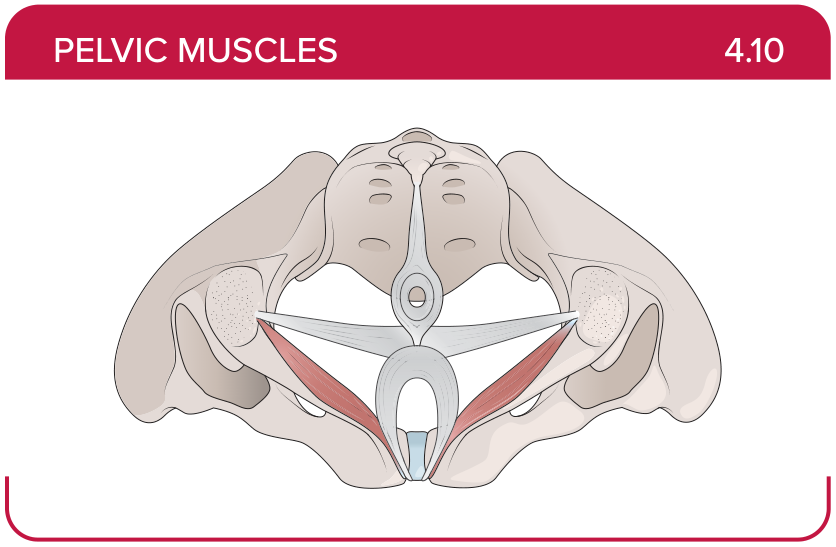
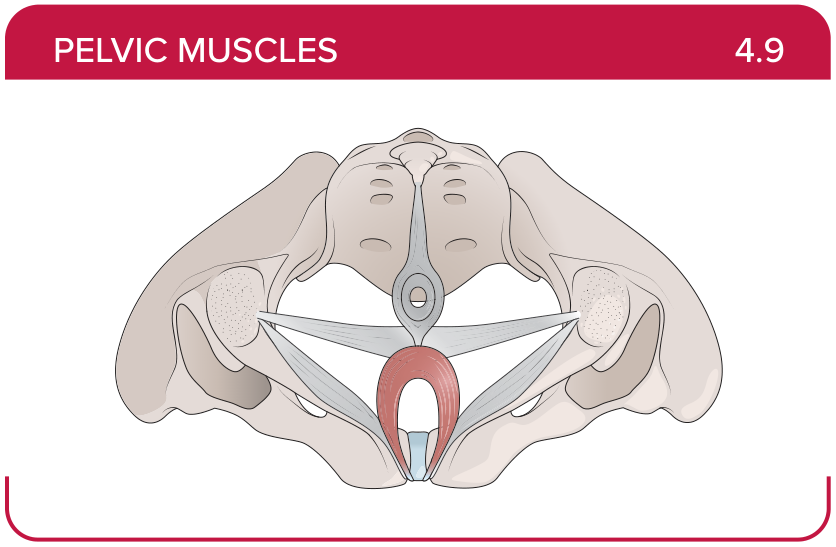
edits before proof

diff --git a/data/cards.js b/data/cards.js
@@ -2,8 +2,8 @@
 window.MCPHERSON_CARD_DATA = {
   "schemaVersion": 2,
   "source": {
-    "filename": "Section 6 Question Manuscript.docx",
[1 lines of base64/hex data omitted]
+    "filename": "Section 4 Question Manuscript.docx",
[1 lines of base64/hex data omitted]
     "manuscriptSectionHeadings": [
       "Section 1: Head and neck",
       "Section 2: Lumbar Region",
@@ -14,10 +14,10 @@ window.MCPHERSON_CARD_DATA = {
     ],
     "merge": {
       "replacedSectionIds": [
-        "lower-extremity"
+        "pelvic-bones"
       ],
-      "replacedCards": 71,
-      "preservedCards": 173
+      "replacedCards": 13,
+      "preservedCards": 231
     }
   },
   "sections": [
@@ -11670,15 +11670,15 @@ window.MCPHERSON_CARD_DATA = {
       "ready": true,
       "draftReasonCodes": [],
       "image": {
-        "sourceFile": "L1344_760107",
-        "src": "Assets/Cards/L1344_760107.png",
+        "sourceFile": "L1344_760108",
+        "src": "Assets/Cards/L1344_760108.png",
         "width": 836,
         "height": 547,
         "alt": "Superficial transverse perineal anatomical reference illustration",
         "draftThumbnail": true,
         "packageSource": "word/media/image8.png"
       },
-      "searchText": "4.8 pelvic bones muscles superficial transverse perineal l1344_760107 proximal insertion: *ischium pubis anococcygeal ligament distal insertion: *perineal body pubic symphysis coccyx innervation: *pudendal nerve anterior rami of spinal nerves s4-s5 action: *supports the perineal body *maintains the anus at the center of the perineum compression of the anal canal",
+      "searchText": "4.8 pelvic bones muscles superficial transverse perineal l1344_760108 proximal insertion: *ischium pubis anococcygeal ligament distal insertion: *perineal body pubic symphysis coccyx innervation: *pudendal nerve anterior rami of spinal nerves s4-s5 action: *supports the perineal body *maintains the anus at the center of the perineum compression of the anal canal",
       "groups": [
         {
           "id": "proximal-insertion",
@@ -11793,15 +11793,15 @@ window.MCPHERSON_CARD_DATA = {
       "ready": true,
       "draftReasonCodes": [],
       "image": {
-        "sourceFile": "L1344_760108",
-        "src": "Assets/Cards/L1344_760108.png",
+        "sourceFile": "L1344_760109",
+        "src": "Assets/Cards/L1344_760109.png",
         "width": 836,
         "height": 547,
         "alt": "Bulbospongiosus anatomical reference illustration",
         "draftThumbnail": true,
         "packageSource": "word/media/image9.png"
       },
-      "searchText": "4.9 pelvic bones muscles bulbospongiosus l1344_760108 proximal insertion: *perineal body anococcygeal ligament ischial rami distal insertion: *perineal membrane *corpus spongiosum of the penis, deep fascia of the penis, clitoris in the female pubic symphysis innervation: *pudendal nerve anterior rami of spinal nerves s4-s5 action: *compresses the urethra during urination or ejaculation *aids erection stabilizes the coccyx",
+      "searchText": "4.9 pelvic bones muscles bulbospongiosus l1344_760109 proximal insertion: *perineal body anococcygeal ligament ischial rami distal insertion: *perineal membrane *corpus spongiosum of the penis, deep fascia of the penis, clitoris in the female pubic symphysis innervation: *pudendal nerve anterior rami of spinal nerves s4-s5 action: *compresses the urethra during urination or ejaculation *aids erection stabilizes the coccyx",
       "groups": [
         {
           "id": "proximal-insertion",
@@ -11916,15 +11916,15 @@ window.MCPHERSON_CARD_DATA = {
       "ready": true,
       "draftReasonCodes": [],
       "image": {
-        "sourceFile": "L1344_760109",
-        "src": "Assets/Cards/L1344_760109.png",
+        "sourceFile": "L1344_760110",
+        "src": "Assets/Cards/L1344_760110.png",
         "width": 836,
         "height": 547,
         "alt": "Ischiocavernosus anatomical reference illustration",
         "draftThumbnail": true,
         "packageSource": "word/media/image10.png"
       },
-      "searchText": "4.10 pelvic bones muscles ischiocavernosus l1344_760109 proximal insertion: *ischium *ischial rami *pubic rami distal insertion: *pubic symphysis *corpus cavernosum of the penis in males, clitoris in females perineal body innervation: *pudendal nerve anterior rami of spinal nerves s4-s5 action: *compresses veins to maintain erection supports the pelvic floor closes the anus",
+      "searchText": "4.10 pelvic bones muscles ischiocavernosus l1344_760110 proximal insertion: *ischium *ischial rami *pubic rami distal insertion: *pubic symphysis *corpus cavernosum of the penis in males, clitoris in females perineal body innervation: *pudendal nerve anterior rami of spinal nerves s4-s5 action: *compresses veins to maintain erection supports the pelvic floor closes the anus",
       "groups": [
         {
           "id": "proximal-insertion",
@@ -12039,15 +12039,15 @@ window.MCPHERSON_CARD_DATA = {
       "ready": true,
       "draftReasonCodes": [],
       "image": {
-        "sourceFile": "L1344_760110",
-        "src": "Assets/Cards/L1344_760110.png",
+        "sourceFile": "L1344_760111",
+        "src": "Assets/Cards/L1344_760111.png",
         "width": 836,
         "height": 547,
         "alt": "External urethral sphincter anatomical reference illustration",
         "draftThumbnail": true,
         "packageSource": "word/media/image11.png"
       },
-      "searchText": "4.11 pelvic bones muscles external urethral sphincter l1344_760110 proximal insertion: *ischial rami *pubic rami pubic symphysis ischial spine distal insertion: *male—median raphe; female—vaginal wall perineal body coccyx innervation: *pudendal nerve anterior rami of spinal nerves s4-s5 action: *voluntarily compresses urethra during urination closes the anus stabilizes the coccyx",
+      "searchText": "4.11 pelvic bones muscles external urethral sphincter l1344_760111 proximal insertion: *ischial rami *pubic rami pubic symphysis ischial spine distal insertion: *male—median raphe; female—vaginal wall perineal body coccyx innervation: *pudendal nerve anterior rami of spinal nerves s4-s5 action: *voluntarily compresses urethra during urination closes the anus stabilizes the coccyx",
       "groups": [
         {
           "id": "proximal-insertion",
@@ -12167,15 +12167,15 @@ window.MCPHERSON_CARD_DATA = {
       "ready": true,
       "draftReasonCodes": [],
       "image": {
-        "sourceFile": "L1344_760111",
-        "src": "Assets/Cards/L1344_760111.png",
+        "sourceFile": "L1344_760112",
+        "src": "Assets/Cards/L1344_760112.png",
         "width": 836,
         "height": 547,
         "alt": "External anal sphincter anatomical reference illustration",
         "draftThumbnail": true,
         "packageSource": "word/media/image12.png"
       },
-      "searchText": "4.12 pelvic bones muscles external anal sphincter l1344_760111 proximal insertion: *anococcygeal ligament pubic symphysis ischial spine distal insertion: *perineal body pubic symphysis coccyx innervation: *pudendal nerve anterior rami of spinal nerves s4-s5 action: *closes the anus voluntarily compresses urethra during urination stabilizes the coccyx",
+      "searchText": "4.12 pelvic bones muscles external anal sphincter l1344_760112 proximal insertion: *anococcygeal ligament pubic symphysis ischial spine distal insertion: *perineal body pubic symphysis coccyx innervation: *pudendal nerve anterior rami of spinal nerves s4-s5 action: *closes the anus voluntarily compresses urethra during urination stabilizes the coccyx",
       "groups": [
         {
           "id": "proximal-insertion",
@@ -12290,15 +12290,15 @@ window.MCPHERSON_CARD_DATA = {
       "ready": true,
       "draftReasonCodes": [],
       "image": {
-        "sourceFile": "L1344_760112",
-        "src": "Assets/Cards/L1344_760112.png",
+        "sourceFile": "L1344_760113",
+        "src": "Assets/Cards/L1344_760113.png",
         "width": 836,
         "height": 547,
         "alt": "Coccygeus anatomical reference illustration",
         "draftThumbnail": true,
         "packageSource": "word/media/image13.png"
       },
-      "searchText": "4.13 pelvic bones muscles coccygeus l1344_760112 proximal insertion: *ischial spine ischial rami pubic rami ischium distal insertion: *anterior rami of spinal nerves s4-s5 perineal body pubic symphysis coccyx innervation: *s4 and s5 pudendal nerve action: *supports the pelvic floor *stabilizes the coccyx closes the anus",
+      "searchText": "4.13 pelvic bones muscles coccygeus l1344_760113 proximal insertion: *ischial spine ischial rami pubic rami ischium distal insertion: *anterior rami of spinal nerves s4-s5 perineal body pubic symphysis coccyx innervation: *s4 and s5 pudendal nerve action: *supports the pelvic floor *stabilizes the coccyx closes the anus",
       "groups": [
         {
           "id": "proximal-insertion",

diff --git a/tests/smoke.html b/tests/smoke.html
@@ -76,6 +76,14 @@
           const data = appWindow.MCPHERSON_CARD_DATA;
 
           assert(data.cards.length === 244, "Expected all 244 manuscript cards.");
+          const stackActions = documentRoot.querySelector(".stack-actions");
+          const stackContent = documentRoot.getElementById("stackContent");
+          assert(
+            stackContent.getBoundingClientRect().top -
+              stackActions.getBoundingClientRect().bottom >=
+              12,
+            "Study-stack actions should be visually separated from its content box.",
+          );
           assert(
             data.cards.filter(
               (card) => card.sectionId === "head-neck" && card.cardType === "bones",
@@ -365,12 +373,30 @@
             "Section 4 should use the full-size production artwork.",
           );
 
-          searchFor(documentRoot, "L1344_760107");
+          const correctedSectionFourImages = {
+            "4.8": "L1344_760108",
+            "4.9": "L1344_760109",
+            "4.10": "L1344_760110",
+            "4.11": "L1344_760111",
+            "4.12": "L1344_760112",
+            "4.13": "L1344_760113",
+          };
+          for (const [cardId, sourceFile] of Object.entries(
+            correctedSectionFourImages,
+          )) {
+            const correctedCard = data.cards.find((card) => card.id === cardId);
+            assert(
+              correctedCard?.image.sourceFile === sourceFile,
+              `Card ${cardId} should use ${sourceFile}.`,
+            );
+          }
+
+          searchFor(documentRoot, "L1344_760113");
           assert(
             documentRoot
               .querySelector(".artwork-image")
-              .getAttribute("src") === "Assets/Cards/L1344_760107.png",
-            "Missing production artwork should fall back to its imported thumbnail.",
+              .getAttribute("src") === "Assets/images/L1344_760113.png",
+            "Corrected Section 4 cards should use full-size production artwork.",
           );
 
           searchFor(documentRoot, "L1344_760114");

diff --git a/app.js b/app.js
@@ -45,8 +45,6 @@
     "lower-extremity": "Assets/images",
   };
 
-  const unavailableProductionArtwork = new Set(["L1344_760107"]);
-
   const state = {
     cards: originalCards.slice(),
     selectedSections: new Set(),
@@ -387,11 +385,7 @@
 
   function artworkSource(card) {
     const productionDirectory = productionArtworkDirectories[card.sectionId];
-    if (
-      productionDirectory &&
-      card.image.sourceFile &&
-      !unavailableProductionArtwork.has(card.image.sourceFile)
-    ) {
+    if (productionDirectory && card.image.sourceFile) {
       return `${productionDirectory}/${card.image.sourceFile}.png`;
     }
     return card.image.src;

diff --git a/index.html b/index.html
@@ -5,9 +5,9 @@
     <meta name="viewport" content="width=device-width, initial-scale=1.0" />
     <meta name="theme-color" content="#16324f" />
     <title>Musculoskeletal Anatomy Flash Cards</title>
-    <link rel="stylesheet" href="styles.css?v=20260804-3" />
-    <script src="data/cards.js?v=20260804-3" defer></script>
-    <script src="app.js?v=20260804-3" defer></script>
+    <link rel="stylesheet" href="styles.css?v=20260812-1" />
+    <script src="data/cards.js?v=20260812-1" defer></script>
+    <script src="app.js?v=20260812-1" defer></script>
   </head>
   <body>
     <a class="skip-link" href="#questionContainer">Skip to the current card</a>

diff --git a/styles.css b/styles.css
@@ -999,7 +999,9 @@ h1 {
 }
 
 .stack-actions {
-  margin-top: 0.75rem;
+  margin: 0.75rem 0 1rem;
+  border-bottom: 1px solid var(--line);
+  padding-bottom: 0.85rem;
 }
 
 .stack-list {
@@ -1007,7 +1009,7 @@ h1 {
   max-height: 560px;
   gap: 0.6rem;
   overflow: auto;
-  margin: 0.85rem 0 0;
+  margin: 0;
   padding: 0 0.15rem 0 0;
   list-style: none;
 }

diff --git a/README.md b/README.md
@@ -21,9 +21,7 @@ The import is deterministic and produces:
 - `data/cards.js` — all browser-ready card content and answer data.
 - `data/import-report.json` — counts plus card-specific editorial warnings/errors.
 - `Assets/Cards/<Image file>.png` — the embedded thumbnail associated with each card.
-- `Assets/images/<Image file>.png` — production artwork used across all six sections
-  when available. Card 4.8 remains on its imported thumbnail until
-  `L1344_760107.png` is supplied.
+- `Assets/images/<Image file>.png` — production artwork used across all six sections.
 
 Do not edit generated files by hand. Make content corrections in the manuscript and rerun the importer. `--clean-assets` only removes stale image files from the exact `Assets/Cards` directory. Use `--check-only` to validate a manuscript without changing generated files, or `--strict` when any warning should fail a production check.
 
